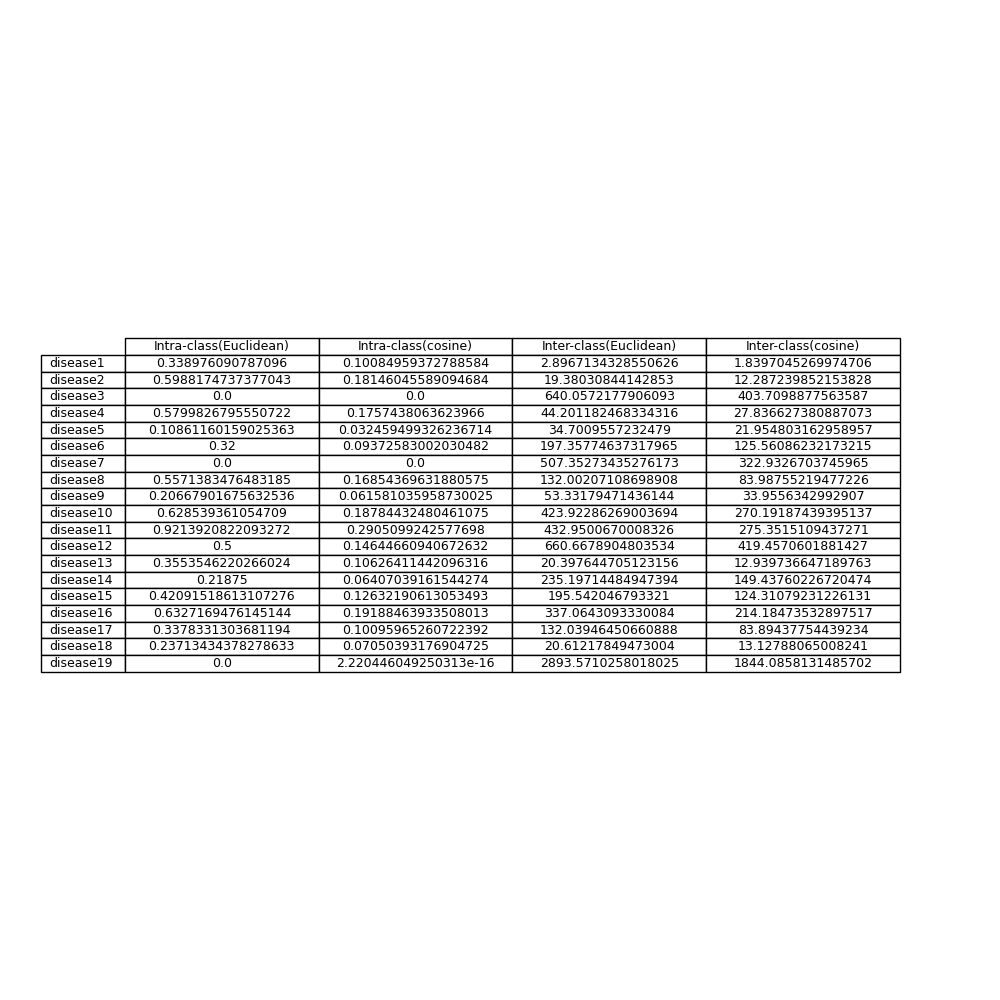
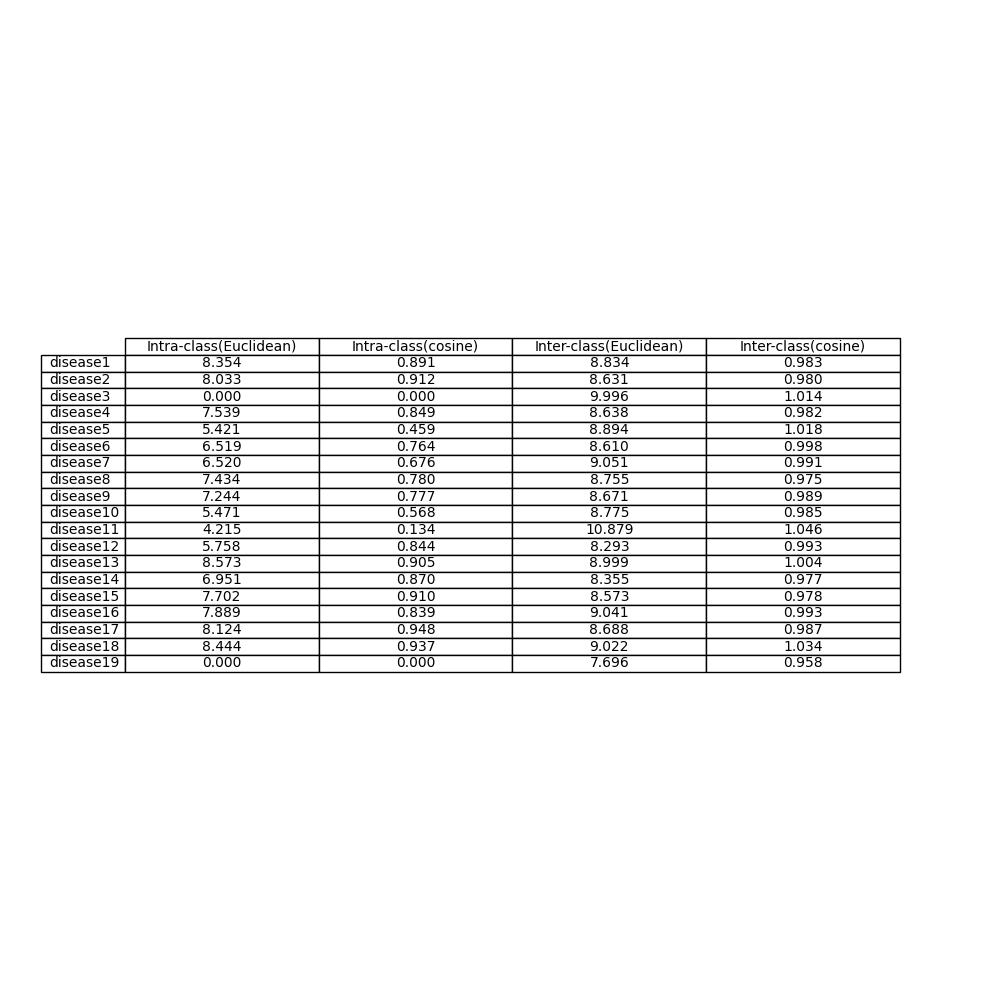
lab2基本完成

diff --git a/lab2/interactionMatrix.py b/lab2/interactionMatrix.py
@@ -1,9 +1,11 @@
-import numpy
 import numpy as np
 import matplotlib.pyplot as plt
-import pandas
+from sklearn.decomposition import PCA
+
+
 class Matrix:
     matrix = []
+    ppi = []
     n = 0
     m = 0
     group = []
@@ -24,7 +26,18 @@ class Matrix:
 
         self.n = len(self.matrix)
         self.m = len(self.matrix[0])
-        # print(self.m)
+        print(self.m)  # 19
+        print(self.n)  # 383
+
+    def init_ppi(self, file_path):
+        f = open(file_path)
+        line = f.readline()
+        cnt = 0
+        while line:
+            datalist = line.split()
+            self.ppi.append(list(map(int, datalist)))
+            cnt = cnt + 1
+            line = f.readline()
 
     def classify(self):
         for i in range(self.m):
@@ -36,6 +49,11 @@ class Matrix:
 
     def calculate(self):
         # print(self.group)
+        # 先对矩阵进行降维
+        global dis_e_group, dis_c_group
+        pca = PCA(n_components='mle')
+        ppi_ = pca.fit_transform(self.ppi)
+        print(len(ppi_[0]))
         intra_dis_eucl = []
         intra_dis_cos = []
         inter_dis_eucl = []
@@ -45,39 +63,43 @@ class Matrix:
             dis_e = 0
             dis_c = 0
             for j in range(len(self.group[i])):
-                a = np.array(self.matrix[self.group[i][j]])
+                a = np.array(ppi_[self.group[i][j]])
                 for k in range(len(self.group[i])):
-                    b = np.array(self.matrix[self.group[i][k]])
+                    if j == k:
+                        continue
+                    b = np.array(ppi_[self.group[i][k]])
                     dis_e += np.linalg.norm(a - b)
-                    dis_c += 1 - (np.dot(a, b) / (np.sqrt(np.sum(np.square(a))) * np.sqrt(np.sum(np.square(b)))))
+                    dis_c += 1 - (np.dot(a, b) / (np.linalg.norm(a) * np.linalg.norm(b)))
 
-            intra_dis_eucl.append(dis_e / (len(self.group[i]) * len(self.group[i])))
-            intra_dis_cos.append(dis_c / (len(self.group[i]) * len(self.group[i])))
+            num = (len(self.group[i]) * len(self.group[i])) - 1
+            if len(self.group[i]) == 1:
+                num = num + 1
+            intra_dis_eucl.append(format(dis_e / num, '.3f'))
+            intra_dis_cos.append(format(dis_c / num, '.3f'))
 
-        dis_e = 0
-        dis_c = 0
-        dis_e_group = 0
-        dis_c_group = 0
         for i in range(self.m):
+            dis_e_group = 0
+            dis_c_group = 0
             for ii in range(self.m):
+                dis_e = 0
+                dis_c = 0
                 for j in range(len(self.group[i])):
-                    a = np.array(self.matrix[self.group[i][j]])
+                    a = np.array(ppi_[self.group[i][j]])
                     for jj in range(len(self.group[ii])):
-                        b = np.array(self.matrix[self.group[ii][jj]])
+                        b = np.array(ppi_[self.group[ii][jj]])
                         if i == ii:
                             dis_e += 0
                             dis_c += 0
+                            break
                         else:
                             dis_e += np.linalg.norm(a - b)
-                            dis_c += 1 - (np.dot(a, b) / (np.sqrt(np.sum(np.square(a))) * np.sqrt(np.sum(np.square(b)))))
+                            dis_c += 1 - (np.dot(a, b) / (np.linalg.norm(a) * np.linalg.norm(b)))
+
                 dis_e_group += (dis_e / (len(self.group[i]) * len(self.group[ii])))
                 dis_c_group += (dis_c / (len(self.group[i]) * len(self.group[ii])))
 
-            inter_dis_eucl.append(dis_e_group / (self.m * self.m))
-            inter_dis_cos.append(dis_c_group / (self.m * self.m))
-            dis_c_group = 0
-            dis_e_group = 0
-
+            inter_dis_eucl.append(format(dis_e_group / (self.m - 1), '.3f'))
+            inter_dis_cos.append(format(dis_c_group / (self.m - 1), '.3f'))
 
         maxlen = 0
         for i in range(self.m):
@@ -104,7 +126,7 @@ class Matrix:
         tab = plt.table(cellText=data, colLabels=col, rowLabels=row, cellLoc="center", loc='center')
 
         plt.axis('off')
-        # plt.savefig('../output/di.png')
+        plt.savefig('../output/di.png')
         plt.show()
 
         col = []

diff --git a/lab2/adjMatrix.py b/lab2/adjMatrix.py
@@ -7,7 +7,8 @@ import seaborn as sns
 class Matrix:
     m = []
     n = 0
-
+    pdi = []
+    group = []
     def __int__(self, size):
         self.n = size
         self.m = [[0] * size] * size
@@ -21,8 +22,27 @@ class Matrix:
             self.m[cnt] = list(map(int, datalist))
             cnt = cnt + 1
             line = f.readline()
+    def init_pdi(self, file_path):
+        f = open(file_path)
+        line = f.readline()
+        cnt = 0
+        while line:
+            datalist = line.split()
+            self.pdi.append(list(map(int, datalist)))
+            cnt = cnt + 1
+            line = f.readline()
 
+
+    def classify(self):
+        for i in range(19):
+            self.group.append([])
+        for i in range(383):
+            for j in range(19):
+                if self.m[i][j] == 1:
+                    self.group[j].append(i)
     def embedding(self):
+        self.classify()  # 分类
+
         src = np.array(self.m)
         feature = np.linalg.eig(np.cov(src.T))
         feature_pairs = [((np.abs(feature[0][i])), feature[1][:, i]) for i in range(len(feature[0]))]
@@ -35,23 +55,40 @@ class Matrix:
 
         hot_matrix = [[0] * self.n] * self.n
         hot_matrix_ = [[0] * self.n] * self.n
+        _hot_matrix = []
+        map = []
         index = {}
         for i in range(self.n):
-            hot_matrix[i] = dst - dst[i]
+            hot_matrix[i] = np.abs(dst - dst[i])
+            map.append(0)
 
         for i in range(self.n):
-            index.update({i: np.sum(np.abs(hot_matrix[i]))})
+            index.update({abs(dst[i]): i})
 
-        index = sorted(index.items(), key=lambda x: x[1], reverse=False)
+        index = sorted(index.items(), reverse=True)
         index = list(index)
+        print(index)
         for i in range(self.n):
-            hot_matrix_[i] = hot_matrix[index[i][0]]
-        hot_matrix = np.array(hot_matrix)
+            hot_matrix_[i] = hot_matrix[index[i][1]]
 
+        for i in range(len(self.group)):
+            for j in range(len(self.group[i])):
+                if(map[self.group[i][j]] == 0):
+                    _hot_matrix.append(hot_matrix[self.group[i][j]])
+                    map[self.group[i][j]] = 1
+
+        hot_matrix = np.array(hot_matrix)
         #hot_matrix = hot_matrix[0:60,0:60]
         hot_matrix_ = np.array(hot_matrix_)
         #hot_matrix_ = hot_matrix_[0:60,0:60]
-        f, (ax1, ax2) = plt.subplots(figsize=(20, 20), nrows=2)
-        sns.heatmap(hot_matrix, ax=ax1, cmap='RdBu_r',center=0,square=True)
-        sns.heatmap(hot_matrix_, ax=ax2, cmap='RdBu_r',center=0,square=True)
+        _hot_matrix = np.array(_hot_matrix)
+
+
+        f, (ax1, ax2, ax3) = plt.subplots(figsize=(10, 10), nrows=3)
+        sns.heatmap(hot_matrix, ax=ax1, cmap='RdBu_r', center=0, square=True)
+        #sns.heatmap(hot_matrix, ax=ax1 ,square=True)
+        sns.heatmap(hot_matrix_, ax=ax2, cmap='RdBu_r', center=0, square=True)
+        sns.heatmap(_hot_matrix, ax=ax3, cmap='RdBu_r', center=0, square=True)
+        plt.title("heatmap")
+        plt.savefig('../output/hotmap.png')
         plt.show()

diff --git a/lab2/main.py b/lab2/main.py
@@ -3,6 +3,8 @@ import  interactionMatrix
 if __name__ == '__main__':
     handle = adjMatrix.Matrix()
     handle.__int__(383)
+    file_path = "../file/pdi.txt"
+    handle.init_pdi(file_path)
     file_path = "../file/ppi.txt"
     handle.init_matrix(file_path)
     handle.embedding()
@@ -11,5 +13,7 @@ if __name__ == '__main__':
     handle_.__int__()
     file_path = "../file/pdi.txt"
     handle_.init_matrix(file_path)
+    file_path = "../file/ppi.txt"
+    handle_.init_ppi(file_path)
     handle_.classify()
     handle_.calculate()
